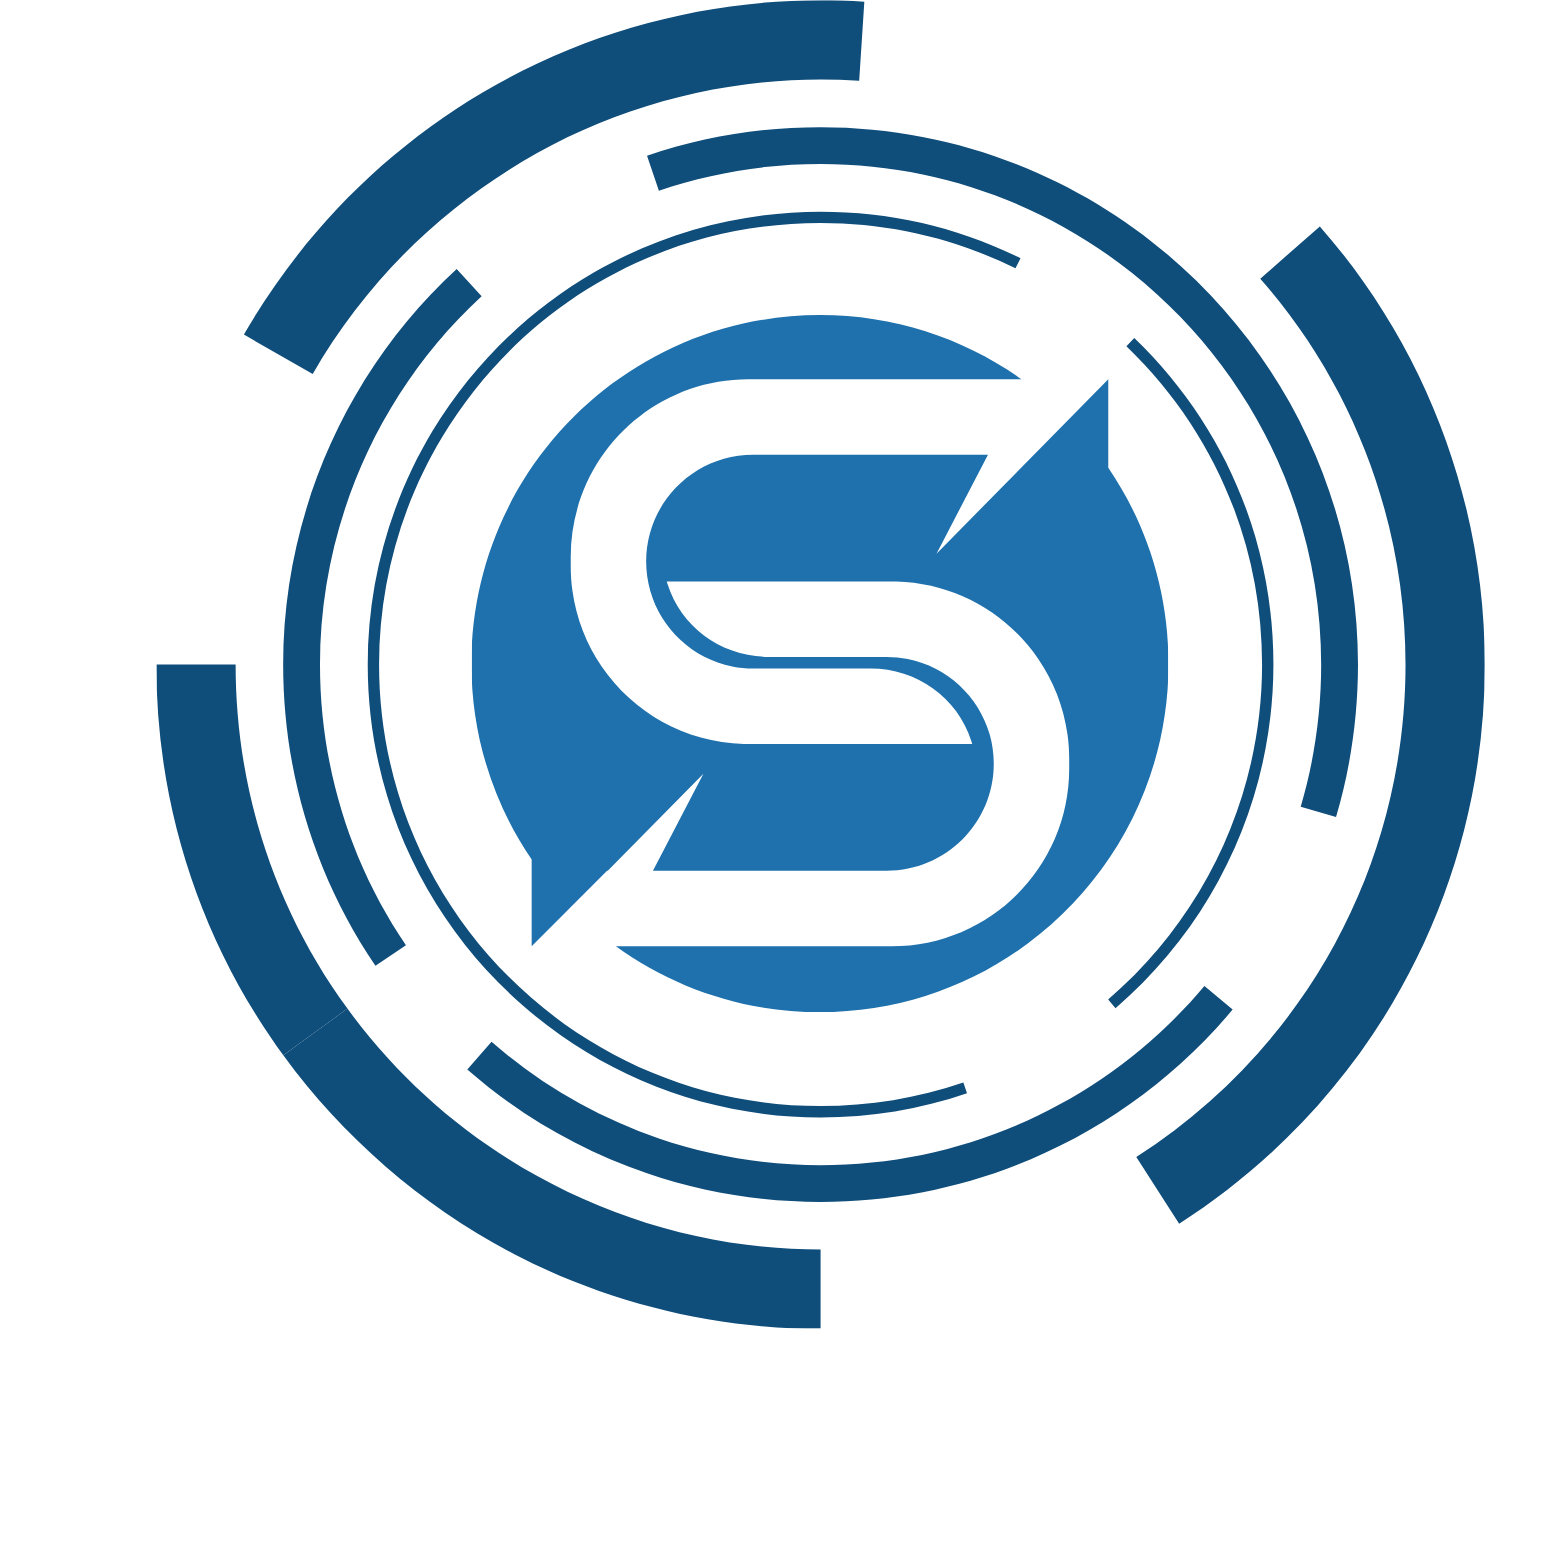
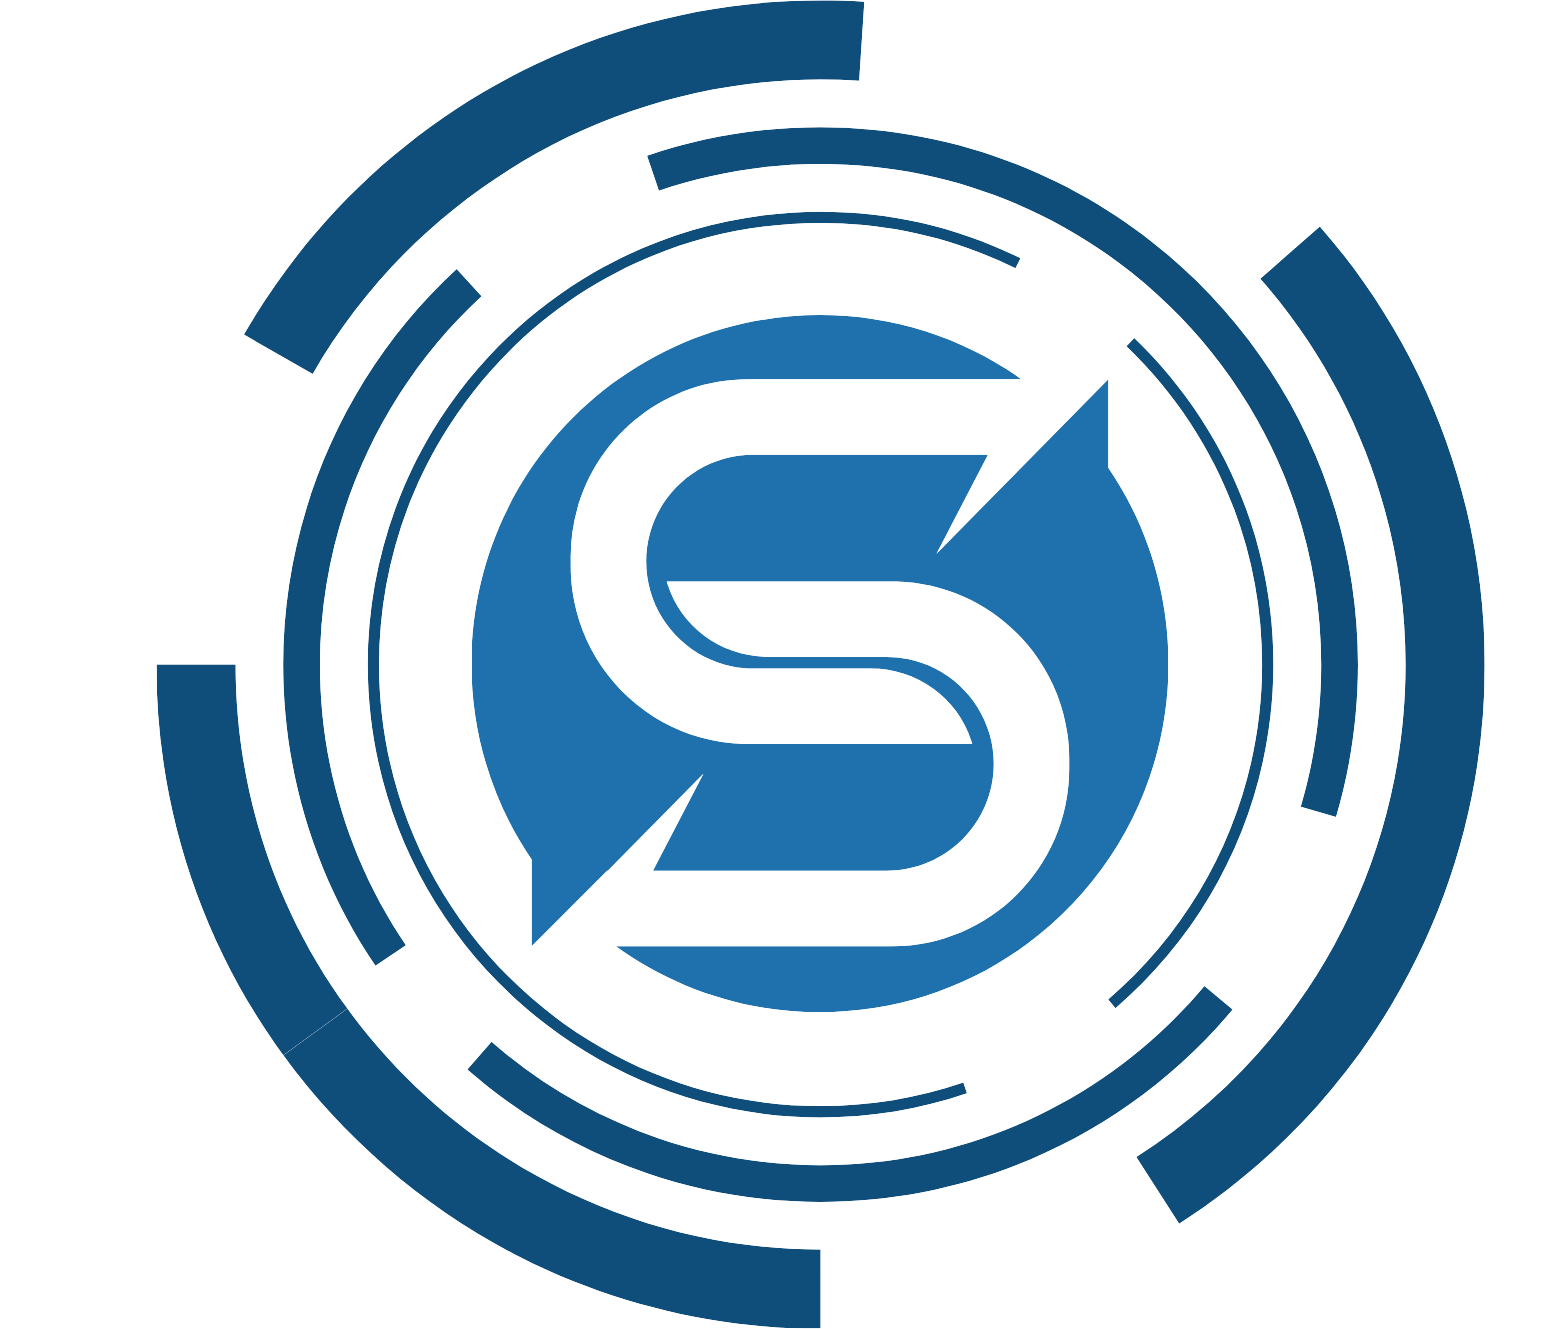
new file:   assets/picture/Outils.png new file:   assets/picture/Pharma2.png new file:   assets/picture/Rugby Word Cup 2023(2).png new file:   assets/picture/SpeakEasy(2).png modified:   assets/picture/SpeakEasy.png new file:   assets/picture/azerty.png modified:   index.html

diff --git a/index.html b/index.html
@@ -46,7 +46,7 @@
                 <a href="https://github.com/Mxf96/SpeakEasy" target="_blank" rel="noopener noreferrer">Voir le projet sur GitHub</a>
             </div>
             <div class="project-image">
-                <img src="./assets/picture/SpeakEasy.png" alt="SpeakEasy Project Image">
+                <img src="./assets/picture/SpeakEasy(2).png" alt="SpeakEasy Project Image">
             </div>
         </article> 
         <article>
@@ -56,7 +56,17 @@
                 <a href="https://github.com/Mxf96/Quiz-XV-de-France" target="_blank" rel="noopener noreferrer">Voir le projet sur GitHub</a>
             </div>
             <div class="project-image">
-                <img src="./assets/picture/Rugby Word Cup 2023.png" alt="Quiz XV de France Project Image">
+                <img src="./assets/picture/Rugby Word Cup 2023(2).png" alt="Quiz XV de France Project Image">
+            </div>
+        </article>
+        <article>
+            <div class="project-content">
+                <h3>Outils en ligne</h3>
+                <p></p>
+                <a href="https://github.com/Mxf96/Outils-en-Ligne" target="_blank" rel="noopener noreferrer">Voir le projet sur GitHub</a>
+            </div>
+            <div class="project-image">
+                <img src="./assets/picture/Outils.png" alt="Quiz XV de France Project Image">
             </div>
         </article>
         <article>
@@ -66,17 +76,17 @@
                 <a href="https://github.com/Mxf96/AzerType" target="_blank" rel="noopener noreferrer">Voir le projet sur GitHub</a>
             </div>
             <div class="project-image">
-                <img src="./assets/picture/azerty-deltbg.png" alt="AzerType Project Image">
+                <img src="./assets/picture/azerty.png" alt="AzerType Project Image">
             </div>
         </article>
         <article>
             <div class="project-content">
                 <h3>Pharamacie-Naturabio</h3>
                 <p>Projet E-Commerce en PHP. Un site web pour une pharmacie proposant des produits naturels.</p>
-                <a href="https://github.com/Mxf96/Pharamacie-Naturabio" target="_blank" rel="noopener noreferrer">Voir le projet sur GitHub</a>
+                <a href="https://github.com/Mxf96/Pharamacie_Naturabio" target="_blank" rel="noopener noreferrer">Voir le projet sur GitHub</a>
             </div>
             <div class="project-image">
-                <img src="./assets/picture/Pharma.png" alt="Pharamacie Naturabio Project Image">
+                <img src="./assets/picture/Pharma2.png" alt="Pharamacie Naturabio Project Image">
             </div>
         </article>
     </section>    
